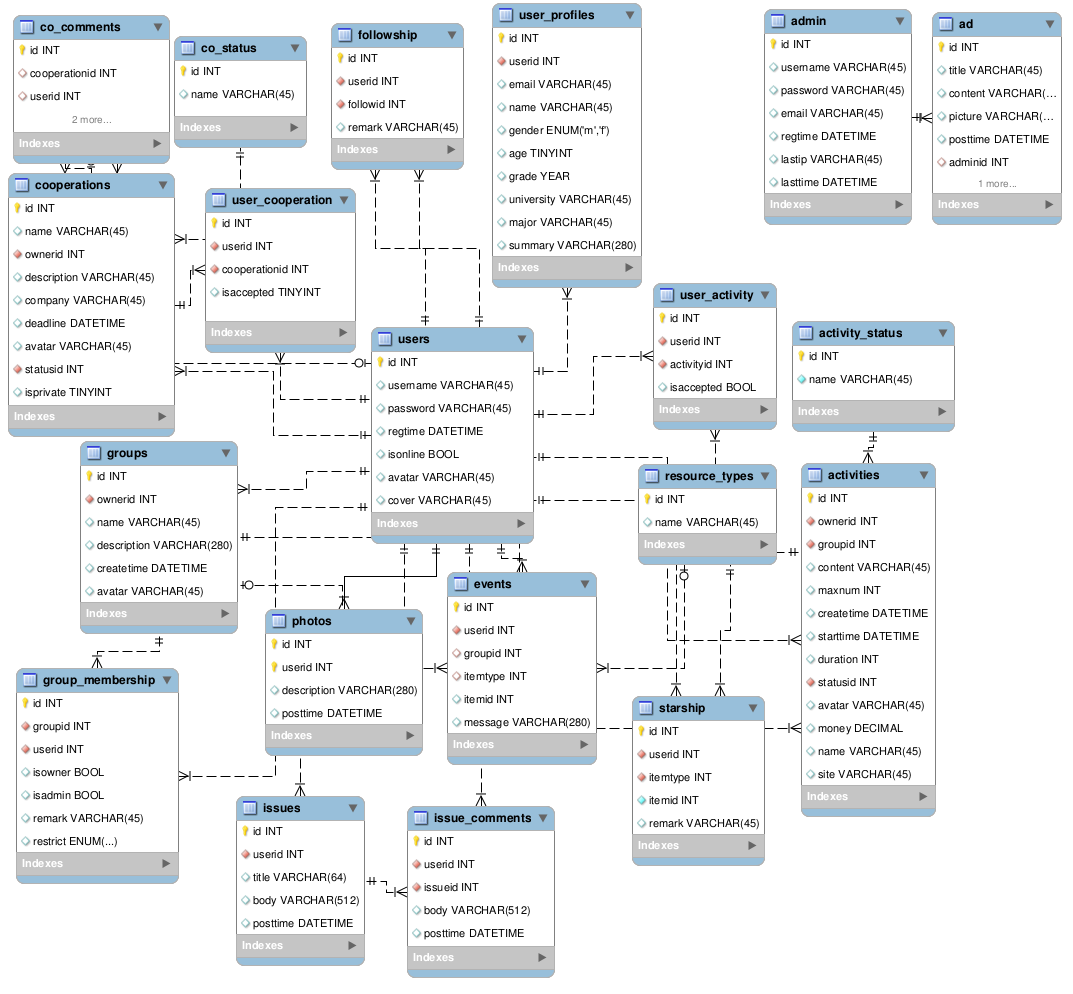
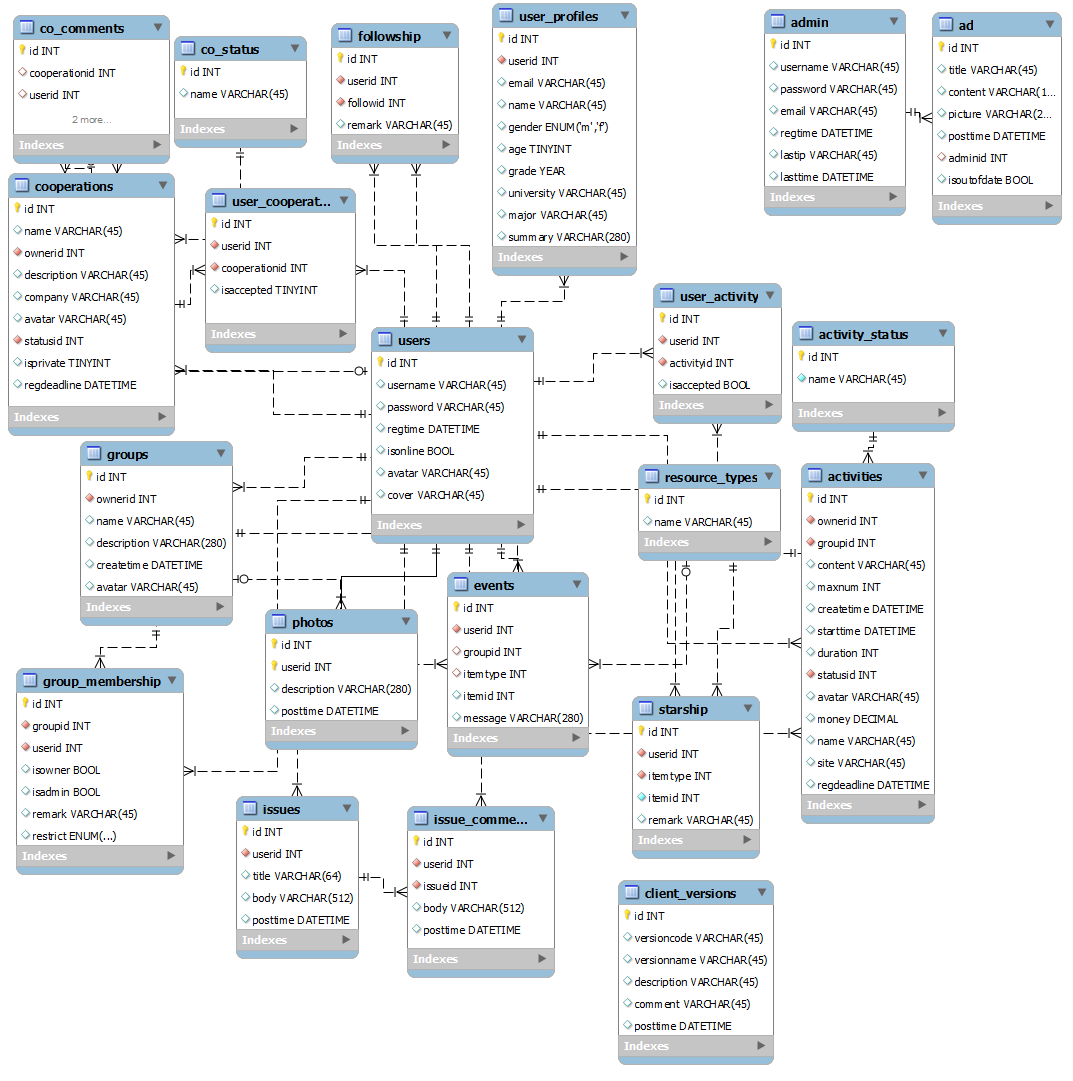
在后台添加“客户端版本管理“

diff --git a/static/admin/add_client_version.html b/static/admin/add_client_version.html
@@ -1,0 +1,40 @@
+<h3>发布新版本</h3>
+<iframe id="contentframe" width="600" height="800" frameborder="0">
+</iframe>
+<div id="addclientdiv" style="display: none">
+<form class="pure-form pure-form-aligned" enctype="multipart/form-data" action="/api/clients/add" method="post">
+    <fieldset>
+        <div class="pure-control-group">
+            <label for="versioncode">VersionCode</label>
+            <input id="versioncode" type="text" name="versioncode">
+        </div>
+
+        <div class="pure-control-group">
+            <label for="versionname">VersionName</label>
+            <input id="versionname" type="text" name="versionname">
+        </div>
+
+        <div class="pure-control-group">
+            <label for="description">描述</label>
+            <textarea id="description" name="description" rows="5" cols="50"></textarea>
+        </div>
+
+        <div class="pure-control-group">
+            <label for="comment">注释</label>
+            <textarea id="comment" name="comment" rows="5" cols="50"></textarea>
+        </div>
+
+        <div class="pure-control-group">
+            <label for="file">apk文件</label>
+            <input id="file" type="file" name="file" />
+        </div>
+
+        <div class="pure-controls">
+            <input type="submit" class="pure-button pure-button-primary"/>
+        </div>
+    </fieldset>
+</form>
+</div>
+        <script>
+            $('#contentframe')[0].contentWindow.document.body.innerHTML = $('#addclientdiv').html();
+        </script>

diff --git a/static/admin/list_client_version.html b/static/admin/list_client_version.html
@@ -1,0 +1,47 @@
+<h3>版本列表</h3>
+<table id="admintable" class="pure-table">
+    <thead>
+    <tr>
+        <th>#</th>
+        <th>VersionCode</th>
+        <th>VersionName</th>
+        <th>描述</th>
+        <th>备注</th>
+        <th>发布时间</th>
+    </tr>
+    </thead>
+
+    <tbody>
+
+    </tbody>
+</table>
+
+<div id="pager">
+    <ul class="pure-paginator">
+    </ul>
+</div>
+        <script>
+            function loadAdminTable(){
+                $.ajax({
+                    url:'/api/clients/find',
+                    success:function(data){
+                        var admins = data['clients'];
+                        var str = '';
+                        for(var i=0; i<admins.length; i++){
+                            str += '<tr>'
+                                +'<td>'+admins[i]['id']+'</td>'
+                                +'<td>'+admins[i]['versioncode']+'</td>'
+                                +'<td>'+admins[i]['versionname']+'</td>'
+                                +'<td>'+admins[i]['description']+'</td>'
+                                +'<td>'+admins[i]['comment']+'</td>'
+                                +'<td>'+admins[i]['posttime']+'</td>'
+                                +'</tr>';
+                        }
+                        $('#admintable>tbody').html(str);
+                    }
+                });
+            }
+            $(function(){
+                loadAdminTable();
+            });
+        </script>

diff --git a/routes/clients.js b/routes/clients.js
@@ -1,0 +1,60 @@
+/**
+ * Created by Cam on 14-2-6.
+ * @class 客户端版本
+ */
+var ClientVersion = require('../models/clientVersion'),
+	errors = require('../lib/errors'),
+	fs = require('fs'),
+	config = require('../config'),
+	ClientVersions = ClientVersion.Set;
+
+module.exports = function (app) {
+
+	/**
+	 * get /api/clients/find
+	 * @method 版本列表
+	 * @param {null}
+	 * @return {JSON}
+	 */
+	app.get('/api/clients/find', function (req, res, next) {
+		ClientVersions.forge()
+			.fetch().then(
+			function (clients) {
+				next({clients: clients});
+			}
+		);
+	});
+	
+	/**
+	 * post /api/clients/add
+	 * @method 添加新版本
+	 * @param {String} versioncode
+	 * @param {String} versionname
+	 * @param {String} description
+	 * @param {String} comment
+	 * @param {File} file
+	 * @return {JSON}
+	 * {msg: 'client added'}
+	 */
+	app.post('/api/clients/add', function (req, res, next) {
+		if (!req.session.adminid) {
+			return next(errors[21301]);
+		}
+		
+		var file = req.files['file'],
+			newPath = config.contentDir+'/clients/siyuan'+req.body['versioncode']+'.apk';
+		if (!file) return next(errors[20007]);
+		fs.readFile(file['path'], function (err, data) {
+			if (err) return next(errors[30000]);
+			fs.writeFile(newPath, data, function (err) {
+				if (err) return next(errors[30001]);
+				ClientVersion.forge(req.body)
+					.save()
+					.then(function () {
+						next({msg: 'client added'});
+					});
+			});
+		});
+	});
+
+};

diff --git a/static/admin/index.html b/static/admin/index.html
@@ -29,6 +29,9 @@
                 <li><a href="javascript:loadUserList()">用户列表</a></li>
                 <li class="pure-menu-heading">管理员管理</li>
                 <li><a href="javascript:load('list_admin.html')">管理员列表</a></li>
+                <li class="pure-menu-heading">客户端版本管理</li>
+                <li><a href="javascript:load('add_client_version.html')">添加新版本</a></li>
+                <li><a href="javascript:load('list_client_version.html')">版本列表</a></li>
             </ul>
         </div>
     </div>

diff --git a/models/clientVersion.js b/models/clientVersion.js
@@ -1,0 +1,21 @@
+/**
+ * Created by Cam on 14-2-6.
+ */
+var syBookshelf = require('./base'),
+	ClientVersion, ClientVersions;
+
+ClientVersion = module.exports = syBookshelf.Model.extend({
+	tableName: 'client_versions',
+	fields: [
+		'id', 'versioncode', 'versionname', 'description', 'comment', 'posttime'
+	],
+	defaults: function () {
+		return {
+			posttime: new Date()
+		};
+	}
+});
+
+ClientVersions = ClientVersion.Set = syBookshelf.Collection.extend({
+	model: ClientVersion
+});

diff --git a/routes/index.js b/routes/index.js
@@ -14,6 +14,7 @@ module.exports = function (app) {
 	require('./starship')(app);
 	require('./events')(app);
 	require('./ads')(app);
+	require('./clients')(app);
 
 	app.use('/api', function (data, req, res, next) {
 		if (data instanceof Error) return next(data);

diff --git a/content.default/clients/README.md b/content.default/clients/README.md
@@ -1,0 +1,2 @@
+# Client Directory
+用于存放客户端（apk）
